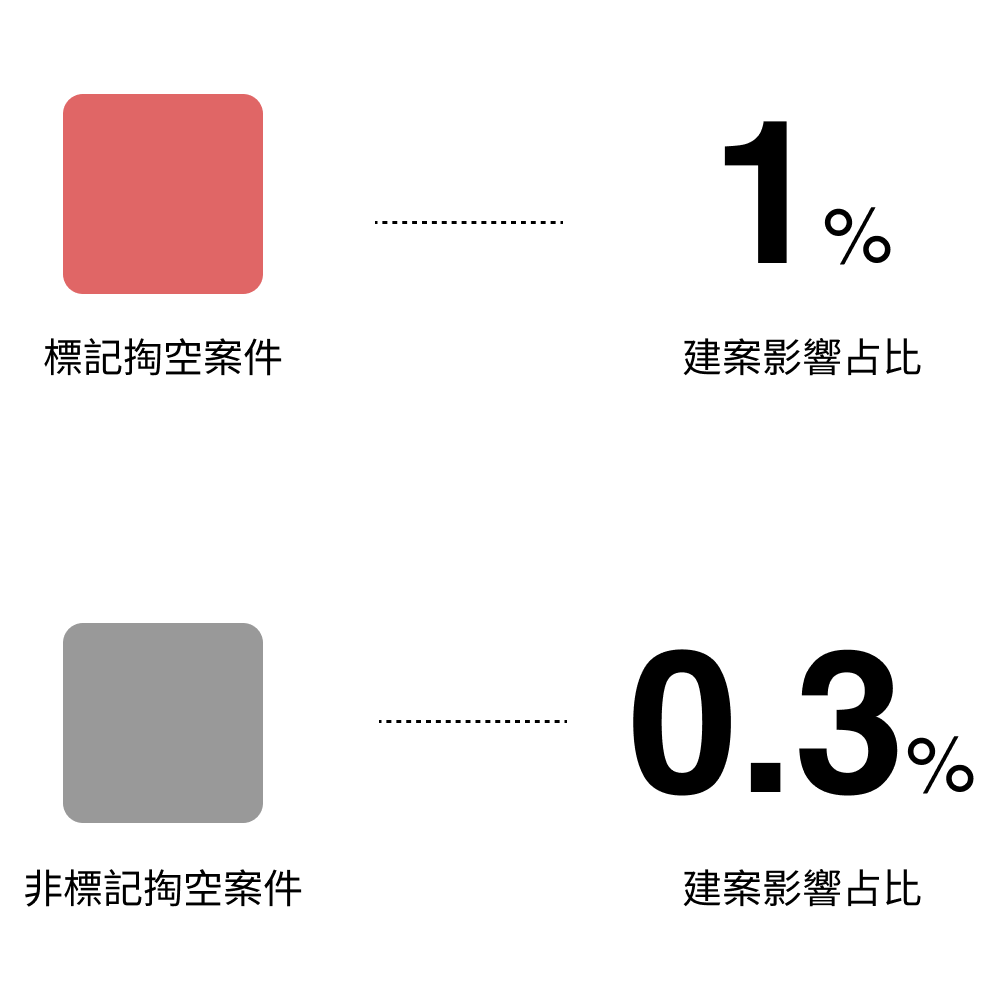
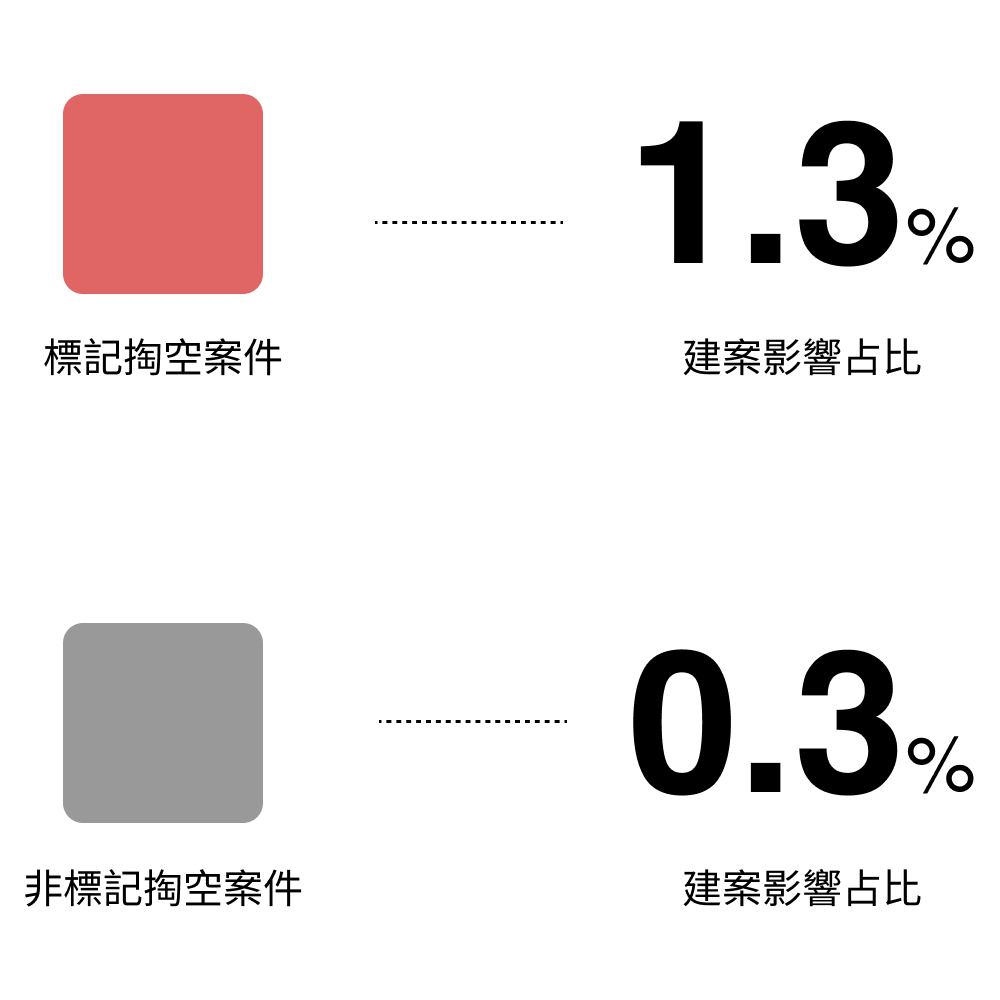
Modify_content

Changed region(s): [[0.62, 0.124, 0.992, 0.279]]

diff --git a/src/assets/lang/ch.js b/src/assets/lang/ch.js
@@ -12,7 +12,7 @@ export const ch = {
 			"然而天坑成因眾多，個案成因亦多不同。加上道路案件數量龐大，難以逐案討論分析。因此新工處與臺北大數據中心合作，透過開放資料，針對相關潛在成因進行完整的分析與討論。",
 		quotetitle: "道路下方就像海洋",
 		quotesubtitle: "「表面看起來沒變，但底下的變化卻遠比想像的還大的多。」新工處指出，過往一線人員發現有路面修整完畢當下看似平坦，但總會於數個月後凹陷的特殊狀況。土壤狀況往往受多種時間、空間因素影響，且不僅肉眼不可見，影響也會持續累積，多種因素交互影響，也讓相關研究更加不易。",
-		quoteperson: "____工務局新工處主任",
+		quoteperson: "",
 		causetitle: "什麼是天坑？怎麼形成的？",
 		causesubtitle:
 			"天坑（Sinkhole）原指喀斯特地形的大型岩溶塌陷，但因其震撼效果，多數報導常用來形容大面積、致災性的塌陷，如道路掏空導致車輛掉入地下。形成天坑的主要因素有三：土壤鬆動流失、水流沖刷、路面支持力不足。然而，即使這些因素都存在，塌陷的具體時間仍難以預測，使得天坑事件難以預防。"
@@ -82,10 +82,10 @@ export const ch = {
 		maintitle: "雨量屬重要成因但與掏空案件無線性增長關係",
 		subtitle: "掏空與月雨量有關嗎？",
 		text1: "相較於颱風帶來的短期強降雨，月雨量則屬於長期影響土壤水分的重要因素。",
-		text2: "根據中央氣象署歷史氣象資料中，臺北測站的月雨量資料進行時間序列分析，月雨量在特徵重要性中排名第二，屬於重要特徵。然而，其相關性屬於低度相關，表示月雨量與掏空案件數量可能存在非線性關係。",
+		text2: "從分析成果觀察，月雨量在特徵重要性中排名第二，屬於重要特徵。然而，其相關性屬於低度相關，表示月雨量增加掏空案件數量未必隨之增長。目前工務局新工處針對雨量，也設下雨量達 77mm時進行道路巡檢的預防措施，預防掏空災害發生。",
 		text3: "降雨落至地面後，除了匯聚至排水溝，部分也會被土壤吸收成為地下水。那麼，地下水是否對掏空案件數量有影響呢？",
 		"captiontitle4-1": "時間成因重要性",
-		"captiontext4-1": "",
+		"captiontext4-1": "採用中央氣象署歷史氣象資料中臺北測站的月雨量資料作為臺北市雨量代表。",
 		"captiontitle4-2": "月雨量與掏空案件數量散布圖",
 		"captiontext4-2": "",
 	},
@@ -130,11 +130,11 @@ export const ch = {
 		maintitle: "雖非多數掏空成因，仍應落實監測通報機制",
 		subtitle: "掏空與建案有關嗎？",
 		text1: "民眾最關心也是報導較多的，莫過於建案施工。不過掏空案件中，真的大多是建案引起的嗎？",
-		text2: "結果顯示，標記案件中屬建案影響者比例僅佔1%，顯示建案並非多數掏空案件的成因。",
+		text2: "結果顯示，標記案件中屬建案影響者比例僅佔 1.3%，顯示建案並非多數掏空案件的成因。",
 		text3: "從新聞報導來看，施工疏漏造成的掏空案件數量雖少但危害巨大，應透過落實工地巡檢及通報機制來提早防範。",
 		text4: "盤點完建案影響，那鄰基地建築線的側溝呢？掏空案件是否容易發生於側溝與路面交界面的位置？",
 		"captiontitle5-1": "建案影響案件占比",
-		"captiontext5-1": "此圖待重新計算",
+		"captiontext5-1": "建案施工相較於一般路面破損，更容易因人為疏失而引致較大規模之災害，案件影響佔比也略高於非掏空案件。",
 		"captiontitle5-2": "建案影響案件篩選方式",
 		"captiontext5-2": "若道路維修案件申報時間落於建案開工日期後，且建案位置座落於案件半徑10米內的案件，則定義為建案影響。",
 	},
@@ -143,12 +143,12 @@ export const ch = {
 		maintitle: "多數案件近路心，非交界處工程介面影響導致",
 		subtitle: "掏空與鋪面交界處有關嗎？",
 		text1: "從建築線向外，首先會接觸到路邊的基礎設施如排水溝抑或是共同管線溝。而路面與側溝由於工法不同，存在所謂的道路交界面，通常也是工程施作上較困難且易發生問題之處。大多數掏空案件會不會與施工交界面有關？",
-		text2: "透過簡單的計算，畫出道路案件位置與道路中心線的垂直距離，並除以一半道路寬度來觀察。若比值越接近1則代表越靠近路肩。",
-		text3: "從建築、道路尺度再拉遠，大範圍的土壤液化潛勢是否也會造成影響？",
+		text2: "觀察位置比值可發現多數掏空案件位於路心附近，而路肩、路面則分居第二、第三。路肩的掏空案件中多為溝體本身遭外力破壞導致，非介面工法影響，因此非掏空成因。",
+		text3: "從建築、道路尺度再放大，更大範圍的土壤液化潛勢是否也會造成影響？",
 		"captiontitle4-1": "位置比值計算方式",
-		"captiontext4-1": "將案件距路心距離除以一半路寬，計算位置比值。",
+		"captiontext4-1": "透過簡單的計算，畫出道路案件位置與道路中心線的垂直距離，並除以一半道路寬度來觀察。若比值越接近1則代表越靠近路肩。",
 		"captiontitle4-2": "位置比值折線圖",
-		"captiontext4-2": "此圖待重新計算",
+		"captiontext4-2": "多數案件落於路心位置，路肩、路面中央則分居第二、第三。少數案件因落於道路邊界線外(位置比值>1)於此不呈現。",
 	},
 	"space-3": {
 		title: "土壤液化潛勢",
@@ -182,7 +182,7 @@ export const ch = {
 		text2: "結果顯示，人工標記的掏空案件中，有 8.3%受到水系搶修影響。雖然這並非主要原因，但相較於建案占比 1%已屬相對較高，實務上應將其納入預防考量。",
 		text3: "有管線才需要維修，那麼管線分布越密集或越老舊，是否也越可能造成掏空？",
 		"captiontitle4-1": "水系搶修案件占比",
-		"captiontext4-1": "計算符合篩選之空間、時間條件之案件數量，除以該類型案件數得到之案件占比。",
+		"captiontext4-1": "水系管線包含自來水給水管線、汙水管線、雨水管線、雨水側溝及連接管線等管線系統，因相關管線引起之搶修則稱之為水系搶修案件。",
 		"captiontitle4-2": "水系搶修影響分析方式",
 		"captiontext4-2": "水系搶修案件位於道路維修案件半徑10米內，且水系搶修發生於道路案件申報的前30日或後5日，可將相關案件定義為受水系搶修影響。",
 	},
